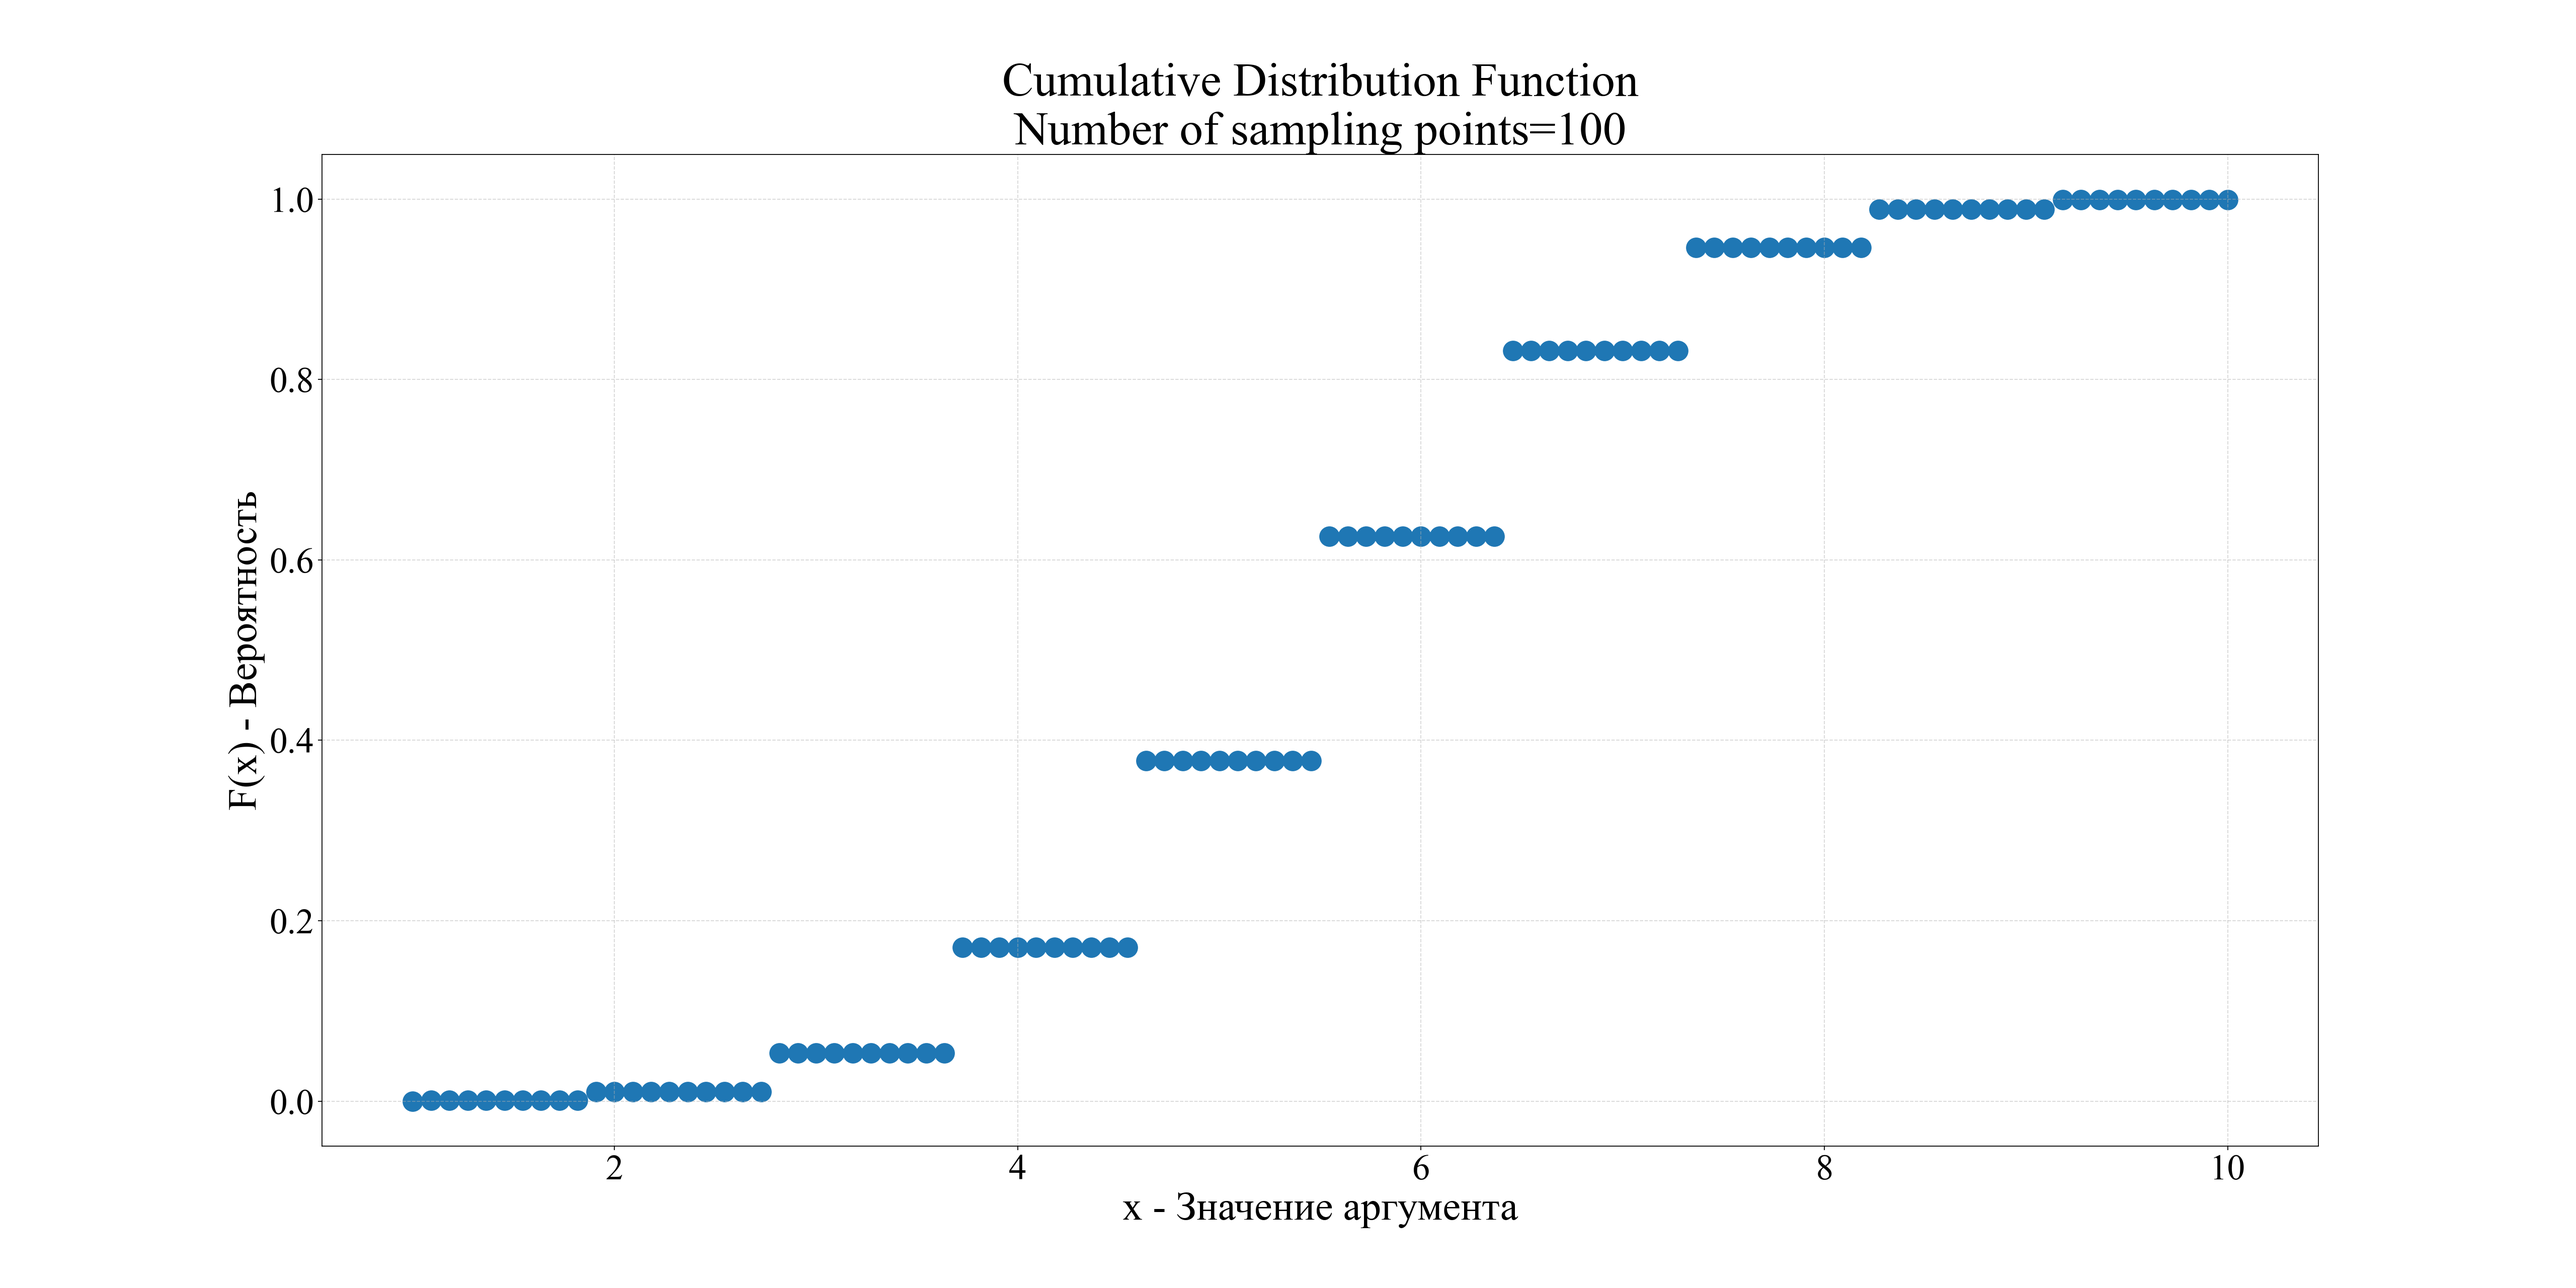
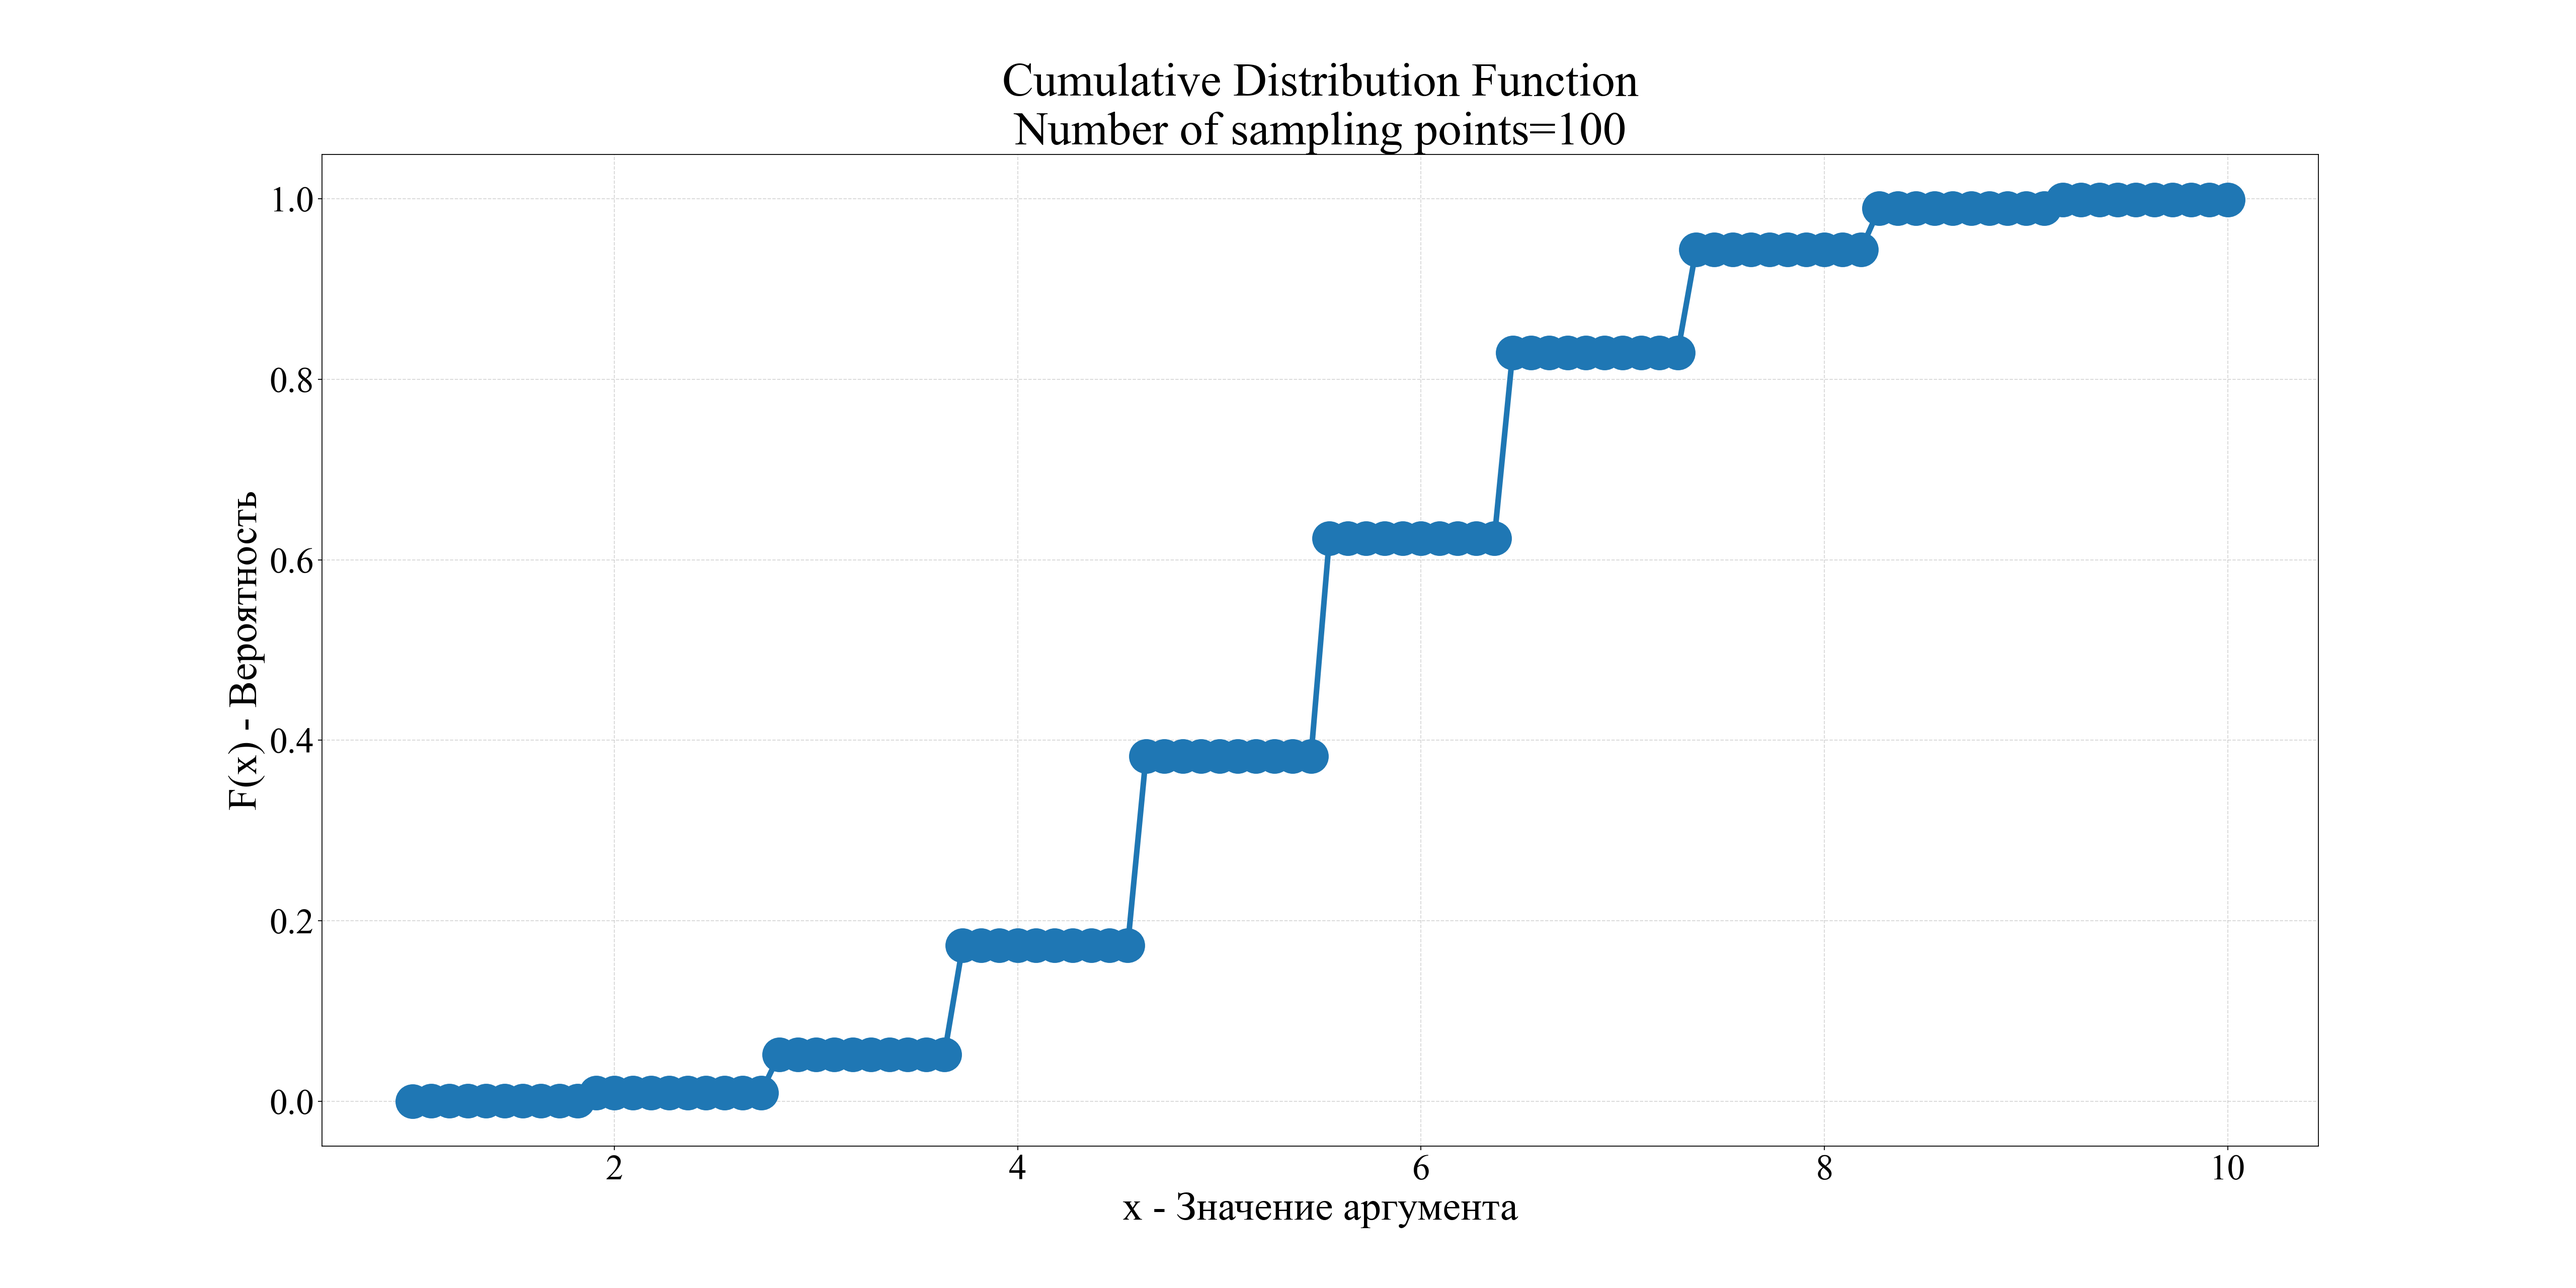
重构 函数

diff --git a/002 - lab2/main.py b/002 - lab2/main.py
@@ -9,7 +9,7 @@
 import st_method
 import numpy as np
 import irandom
-import pandas as pd
+
 
 def uniform_distribution():
     """
@@ -23,7 +23,7 @@ def uniform_distribution():
     D = arr_uniform.var()
 
     print('>' * 50, '\n',
-          'Равномерное распределение:\n',
+          '【2.1】Равномерное распределение:\n',
           '\tM= ', M, '\n',
           '\tD= ', D, '\n')
 
@@ -61,13 +61,13 @@ def binomial_distribution():
     D = arr_binomial.var()
 
     print('>' * 50, '\n',
-          'Биномиальное распределение(2.2):\n',
+          '【2.2】Биномиальное распределение:\n',
           '\tM= ', M, '\n',
           '\tD= ', D, '\n')
 
     arr_cdf = st_method.get_cdf(arr_binomial)
     st_method.plot_cdf(cdf_ndarry=arr_cdf,
-                       kind='scatter',
+                       kind='plot',
                        x_tick_min=1,
                        x_tick_max=10,
                        save_path='./result/【2.2】Binomial distribution/cdf_' + arr_cdf.size.__str__() + '.png')
@@ -87,21 +87,21 @@ def binomial_distribution():
     return
 
 
-def geometric_distribution():
+def geometric_distribution(arr_geometric: np.ndarray, img_save_fold: str):
     """
     CN：几何分布
     EN：Geometric distribution
     RU：Геометрическое распределение
+    :param arr_geometric: 具有几何分布的 numpy.ndarry
+    :param img_save_fold: 图形存储的【文件夹】
     :return: None
     """
-    # arr_geometric = np.random.geometric(p=0.5, size=10000)
-    arr_geometric = irandom.irngeo_1(p=0.5, size=10000)
     print(arr_geometric.max())
     M = arr_geometric.mean()
     D = arr_geometric.var()
 
     print('>' * 50, '\n',
-          'Геометрическое распределение(2.2):\n',
+          '【2.3】Геометрическое распределение:\n',
           '\tM= ', M, '\n',
           '\tD= ', D, '\n')
 
@@ -110,26 +110,36 @@ def geometric_distribution():
                        kind='plot',
                        x_tick_min=1,
                        x_tick_max=arr_geometric.max(),
-                       save_path='./result/【2.3.1】Geometric distribution/cdf_' + arr_cdf.size.__str__() + '.png')
+                       save_path=img_save_fold + 'cdf_' + arr_cdf.size.__str__() + '.png')
 
-    #
-    # cut_num = 14
-    # arr_pdf = st_method.get_pdf(arr_geometric, cut_num=cut_num)
-    # st_method.plot_pdf(pdf_ndarry=arr_pdf,
-    #                    kind='plot',
-    #                    x_tick_min=1,
-    #                    x_tick_max=cut_num - 1,
-    #                    y_tick_min=0,
-    #                    y_tick_max=arr_pdf.max() + 0.1,
-    #                    cut_num=cut_num,
-    #                    save_path='./result/【2.3.1】Geometric distribution/pdf_' + (arr_pdf.size + 1).__str__() + '.png')
+    cut_num = 14
+    arr_pdf = st_method.get_pdf(arr_geometric, cut_num=cut_num)
+    st_method.plot_pdf(pdf_ndarry=arr_pdf,
+                       kind='plot',
+                       x_tick_min=1,
+                       x_tick_max=cut_num - 1,
+                       y_tick_min=0,
+                       y_tick_max=arr_pdf.max() + 0.1,
+                       cut_num=cut_num,
+                       save_path=img_save_fold + 'pdf_' + (arr_pdf.size + 1).__str__() + '.png')
 
     print('-' * 50, '\n')
     return
 
 
 if __name__ == '__main__':
-    # uniform_distribution()
-    # binomial_distribution()
-    geometric_distribution()
+    # 【2.1】РАВНОМЕРНОЕ РАСПРЕДЕЛЕНИЕ (дискретное)
+    uniform_distribution()
+
+    # 【2.2】БИНОМИАЛЬНОЕ РАСПРЕДЕЛЕНИЕ
+    binomial_distribution()
+
+    # 【2.3.1】ГЕОМЕТРИЧЕСКОЕ РАСПРЕДЕЛЕНИЕ (Алгоритм 1)
+    geometric_distribution(arr_geometric=irandom.irngeo_1(p=0.5, size=10000),
+                           img_save_fold='./result/【2.3.1】Geometric distribution/')
+
+    # 【2.3.2】ГЕОМЕТРИЧЕСКОЕ РАСПРЕДЕЛЕНИЕ (Алгоритм 2)
+
+    # 【2.3.3】ГЕОМЕТРИЧЕСКОЕ РАСПРЕДЕЛЕНИЕ (Алгоритм 3)
+
     pass
